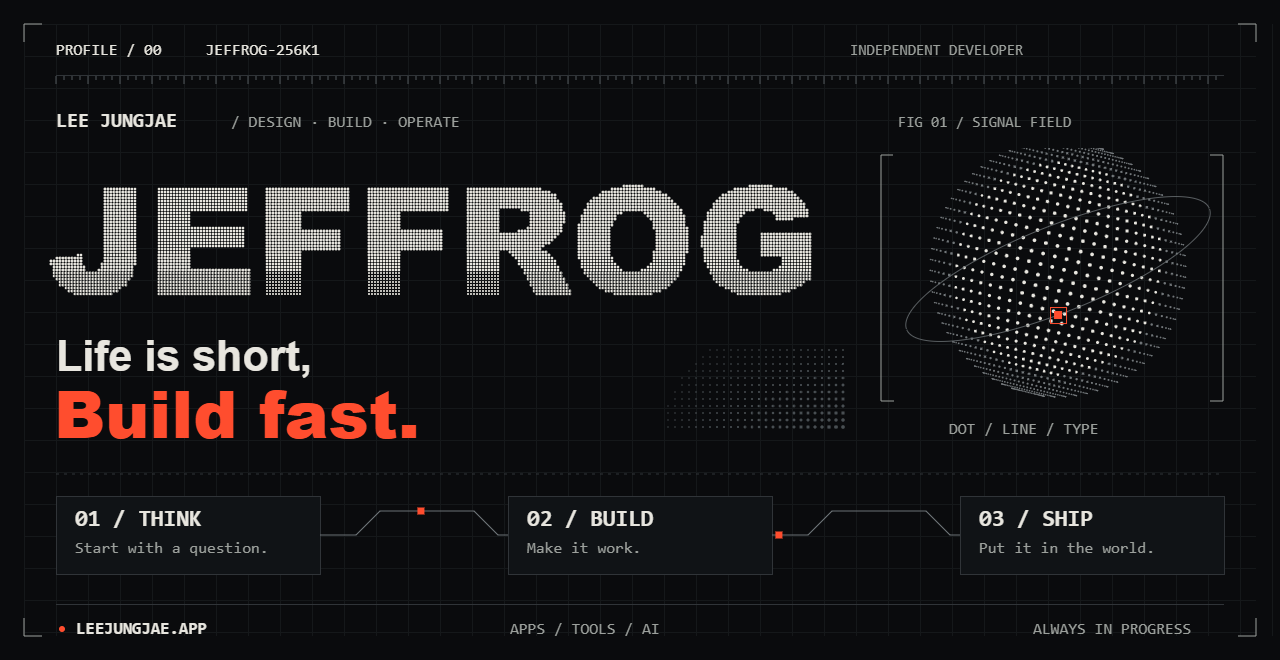
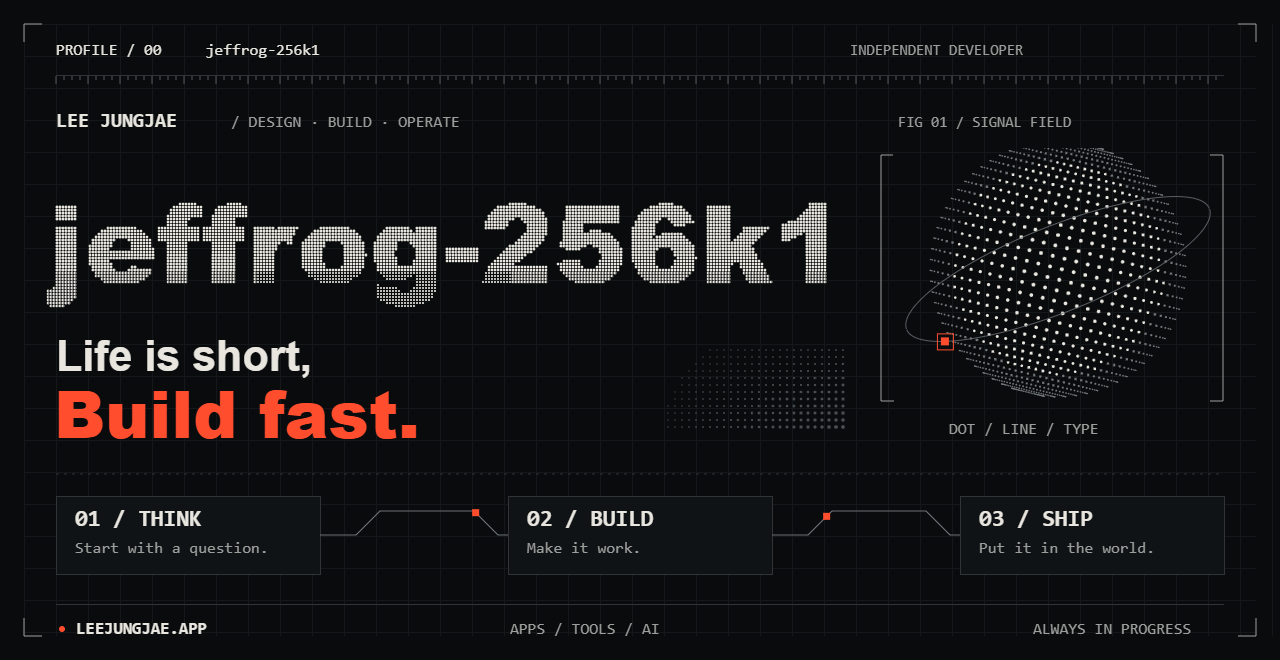
Expand profile with career circuit and product motion diagrams

Changed region(s): [[0.0312, 0.2727, 0.6562, 0.4848], [0.7188, 0.2121, 0.9062, 0.6061], [0.1562, 0.0606, 0.2188, 0.0909]]

diff --git a/README.md b/README.md
@@ -1,11 +1,11 @@
 <a href="https://leejungjae.app">
   <picture>
-    <source media="(prefers-reduced-motion: reduce)" srcset="assets/profile-static.png">
-    <img src="assets/profile-motion.gif" alt="JEFFROG — 이정재. Life is short, Build fast. 점과 선으로 이어지는 THINK, BUILD, SHIP." width="1280">
+    <source media="(prefers-reduced-motion: reduce)" srcset="assets/profile-static.png?v=2">
+    <img src="assets/profile-motion.gif?v=2" alt="jeffrog-256k1 — 이정재. Life is short, Build fast. 점과 선으로 이어지는 THINK, BUILD, SHIP." width="1280">
   </picture>
 </a>
 
-<p align="right"><a href="assets/profile-static.png">정지 이미지로 보기 · Still image</a></p>
+<p align="right"><a href="assets/profile-static.png?v=2">정지 이미지로 보기 · Still image</a></p>
 
 ### 이정재 · Jungjae Lee
 
@@ -18,6 +18,38 @@
 
 ---
 
+### 00 / Build record
+
+<a href="https://leejungjae.app/resume">
+  <picture>
+    <source media="(prefers-reduced-motion: reduce)" srcset="assets/build-record-static.png">
+    <img src="assets/build-record-motion.gif" alt="개발 기술과 경력: Python·C·TypeScript, React·Next.js, NestJS·FastAPI, PostgreSQL·Redis, Cloudflare·Docker, RAG·CUDA·OpenCL. 2014 해군, 2018 KORYPTO, 2020 DEVELOCK, 2024 HEX-CHAIN, 2026 jailbrain.ai." width="1280">
+  </picture>
+</a>
+
+해군 복무 중 독학으로 시작해, 창업과 서비스 운영을 거쳐 지금은 AI 제품을 만들고 있습니다.  
+기획부터 프론트엔드·백엔드·인프라까지 직접 만들고 운영합니다. **[전체 이력 →](https://leejungjae.app/resume)**
+
+<details>
+<summary>기술과 경력을 텍스트로 보기</summary>
+
+| 분야 | 주요 기술 |
+| --- | --- |
+| Languages | Python · C · TypeScript · JavaScript |
+| Frontend | React · Next.js · Three.js · HTML/CSS |
+| Backend | NestJS · FastAPI · WebSocket |
+| Data / Infra | PostgreSQL · Redis · Cloudflare · Docker |
+| AI / GPU | 멀티모델 · RAG · 멀티모달 · CUDA · OpenCL · secp256k1/ECC |
+
+2014 해군 복무·독학 시작 → 2018 KORYPTO 창업 → 2020 DEVELOCK → 2024 HEX-CHAIN DevOps → 2026 jailbrain.ai 개발·운영.
+
+공개 [이력서](https://leejungjae.app/resume)와 [프로필](https://leejungjae.app/about)의 주요 항목을 요약했습니다.
+</details>
+
+<p align="right"><a href="assets/build-record-static.png">정지 도식 보기</a></p>
+
+---
+
 ### 01 / Selected work
 
 <a href="https://leejungjae.app"><img src="assets/leejungjae-app.png" alt="leejungjae.app — 이력서, 포트폴리오와 개발 기록을 한곳에 모은 개인 사이트" width="1280"></a>
@@ -25,10 +57,51 @@
 **[leejungjae.app](https://leejungjae.app)** — 이력서 · 포트폴리오 · 개발 기록  
 만든 것과 만드는 과정을 기록하는 개인 공간입니다. 작업, 경력, 글을 하나의 사이트에서 이어 볼 수 있습니다.
 
+<picture>
+  <source media="(prefers-reduced-motion: reduce)" srcset="assets/portfolio-map-static.png">
+  <img src="assets/portfolio-map-motion.gif" alt="leejungjae.app 기능도: About은 프로필과 경력, Work는 프로젝트와 GitHub 목록, Log는 개발 기록, Resume는 이력서입니다." width="1280">
+</picture>
+
+[About](https://leejungjae.app/about)에서 배경을, [Work](https://leejungjae.app/work)에서 만든 것을, [Log](https://leejungjae.app/log)에서 만드는 과정을 볼 수 있습니다. [Resume](https://leejungjae.app/resume)는 경력과 기술을 정리한 웹 이력서입니다.
+
+<p align="right"><a href="assets/portfolio-map-static.png">정지 도식 보기</a></p>
+
 <a href="https://jailbrain.ai"><img src="assets/jailbrain-ai.png" alt="jailbrain.ai — One brain. Two machines. AI 워크스페이스와 금융 AI 알파" width="1280"></a>
 
 **[jailbrain.ai](https://jailbrain.ai)** — AI 워크스페이스 · 금융 AI 알파  
-대화·코딩·미디어 작업과 시장 분석을 위한 AI 제품을 만들고 있습니다.
+만드는 일을 위한 **Workspace**, 금융 리서치를 위한 **Alpha**. 두 제품을 각각 데스크톱 앱으로 설치할 수 있으며, 같은 계정·요금제·크레딧을 공유합니다. **[앱 비교·다운로드 →](https://jailbrain.ai/download)**
+
+#### A / Workspace — 만들고, 실행하고, 확인합니다
+
+<a href="https://jailbrain.ai/download/workspace">
+  <picture>
+    <source media="(prefers-reduced-motion: reduce)" srcset="assets/workspace-map-static.png">
+    <img src="assets/workspace-map-motion.gif" alt="Workspace 기능 흐름: 대화·코딩·이미지·영상·3D, JAG 작업 배선과 JBM 지식. 데스크톱에서는 파일·편집기·Git·디버거, 터미널 실행과 화면 검증을 연결합니다." width="1280">
+  </picture>
+</a>
+
+- 대화·코딩·이미지·영상·3D 작업을 한곳에서 수행합니다. JAG로 작업 노드를 연결하고 JBM에 지식을 이어갑니다.
+- 데스크톱 앱에서는 **편집기·터미널·Git·디버거**를 한 창에서 사용하며, AI가 연 폴더의 파일을 읽고 수정하고 실행합니다.
+- 만든 화면을 열어 클릭·입력하며 확인하는 흐름까지 이어집니다.
+
+**[Workspace 기능·다운로드 →](https://jailbrain.ai/download/workspace)** · Windows / macOS · [정지 도식](assets/workspace-map-static.png)
+
+#### B / Alpha — 질문에서 근거 있는 보고서까지
+
+<a href="https://jailbrain.ai/download/alpha">
+  <picture>
+    <source media="(prefers-reduced-motion: reduce)" srcset="assets/alpha-map-static.png">
+    <img src="assets/alpha-map-motion.gif" alt="Alpha 기능 흐름: 질문 분류, 계획, 수집, 계산, 분석, 검증의 여섯 단계. 수치에 출처와 기준 시각을 연결해 보고서를 구성합니다. 실제 시세를 표시하는 화면은 아닙니다." width="1280">
+  </picture>
+</a>
+
+- 종목·지수·코인·금리 질문을 **분류 → 계획 → 수집 → 계산 → 분석 → 검증**의 단계형 리서치로 처리합니다.
+- 보고서 수치를 팩트 원장과 연결하고 **출처·기준 시각**을 함께 표시합니다.
+- 전용 앱에서 리서치 터미널·시장 판·대화 내역을 사용하고, `Ctrl+K` / `⌘K`로 화면·종목·대화에 이동합니다.
+
+**[Alpha 기능·다운로드 →](https://jailbrain.ai/download/alpha)** · Windows / macOS · [정지 도식](assets/alpha-map-static.png)
+
+위 도식은 공개 기능을 요약한 모션 그래픽입니다. 실제 실행 상태·시세·투자 성과를 표시하지 않으며, 최신 제공 기능과 이용 조건은 각 공식 페이지에서 확인할 수 있습니다.
 
 두 서비스의 소스코드는 비공개입니다. 공개된 서비스와 소개 자료를 통해 작업을 보여드립니다.
 
